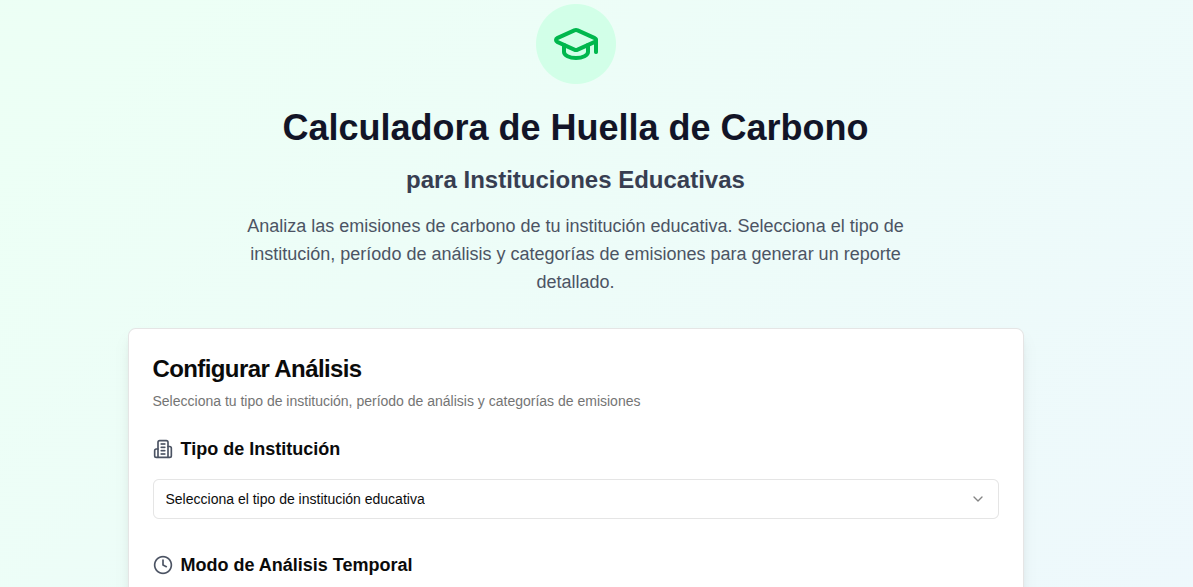
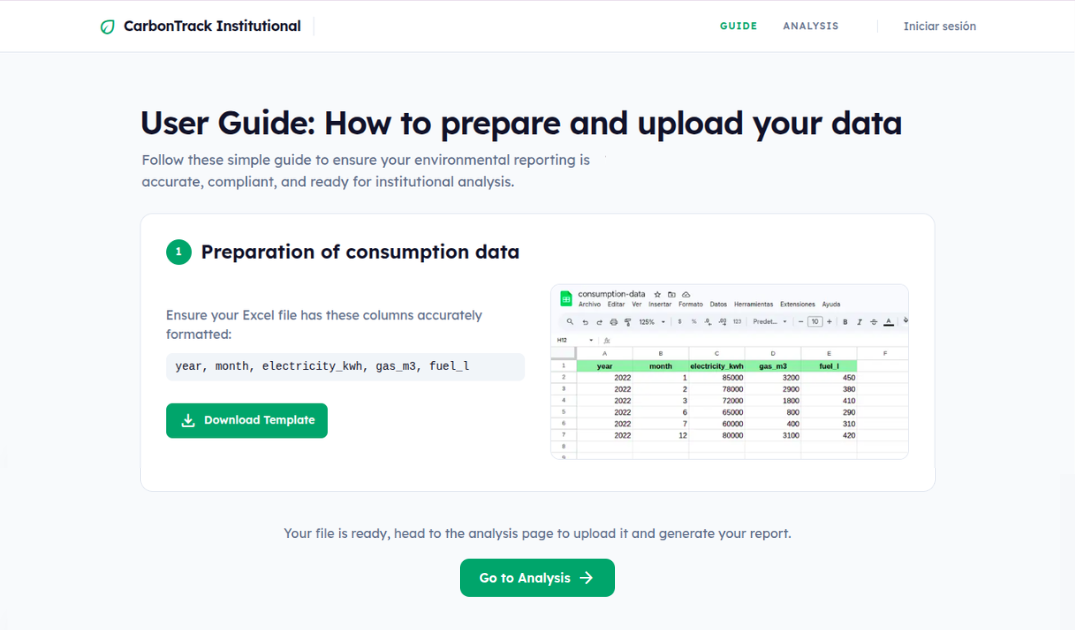
fix: update

diff --git a/src/App.jsx b/src/App.jsx
@@ -7,6 +7,8 @@ const technologies = [
   'Next.js', 'React', 'TypeScript', 'Tailwind CSS', 'shadcn/ui', 'Vite',
   // Backend & DB
   'Node.js', 'Prisma', 'Spring Boot', 'Java', 'PostgreSQL', 'MySQL',
+  // AI-Assisted Development
+  'Claude', 'OpenAI Codex', 'GitHub Copilot', 'v0', 
   // Tools & OS
   'Docker', 'Linux', 'Git/GitHub', 'Postman'
 ];
@@ -89,8 +91,9 @@ export default function App() {
             ))}
           </nav>
           <a
-            href="/example.pdf"
-            download
+            href="https://drive.google.com/file/d/1iX_219qaa5SkApacvYsfLPCkNDo9sdZD/view?usp=sharing"
+            target="_blank"
+            rel="noreferrer"
             className="bg-primary text-on-primary px-6 py-2 rounded-lg text-sm font-semibold hover:bg-primary-container transition-all active:scale-95 duration-100"
           >
             Resume
@@ -110,11 +113,14 @@ export default function App() {
                   Available for new opportunities
                 </span>
                 <h1 className="text-[38px] font-bold text-on-surface leading-[1.1] tracking-[-0.02em] mb-6">
-                  Full-Stack Developer. Creating modern solutions for real problem real problems.
+                Software Developer. Building modern software, AI, and automation solutions for real-world problems.
                 </h1>
                 <p className="text-[18px] text-on-surface-variant leading-relaxed mb-10 max-w-2xl">
-                  With over 2+ years of experience in building scalable web applications,
-                  I bridge the gap between complex backend logic and intuitive frontend experiences.
+                I build modern web applications with a strong focus on frontend development,
+                using React, Next.js, and TypeScript, while also working across APIs, backend
+                services, and databases when needed. I also build workflow automations with
+                n8n and use AI-assisted development tools such as Claude and Codex to explore
+                solutions, accelerate development, and improve my engineering workflow.
                 </p>
                 <div className="flex flex-wrap gap-4">
                   <a

diff --git a/src/components/Projects.jsx b/src/components/Projects.jsx
@@ -9,7 +9,7 @@ const projects = [
     title: 'Sales Management Platform',
     description:
       'A centralized management platform for commercial workflows. It includes an interactive CRM with advanced filtering, a real-time inventory engine with automated stock alerts, and a transactional module featuring a split-view interface for simultaneous catalog browsing and order processing.',
-    techs: ['React', 'TypeScript', 'Node.js', 'PostgreSQL'],
+    techs: ['React', 'TypeScript', 'Node.js', 'PostgreSQL', 'v0'],
     image: '/sales-management.png',
     imageAlt: 'Sales Management Platform — dashboard showing CRM, inventory and order processing modules',
   },
@@ -21,7 +21,7 @@ const projects = [
     title: 'Carbon Footprint Tracker',
     description:
       'A comprehensive data visualization platform to calculate and analyze carbon emissions for educational institutions. Transforms complex environmental data into actionable insights through dynamic charts and automated professional reporting. Collaboration with UNCPBA — Faculty of Exact Sciences.',
-    techs: ['Next.js', 'React', 'TypeScript', 'Tailwind CSS', 'shadcn/ui', 'jsPDF', 'sheetJS', 'PostgreSQL'],
+    techs: ['Next.js', 'React', 'TypeScript', 'Tailwind CSS', 'shadcn/ui', 'jsPDF', 'sheetJS', 'PostgreSQL', 'Claude', 'Codex'],
     image: '/carbon.png',
     imageAlt: 'Carbon Footprint Tracker — dashboard showing emission analysis for educational institutions',
   },
